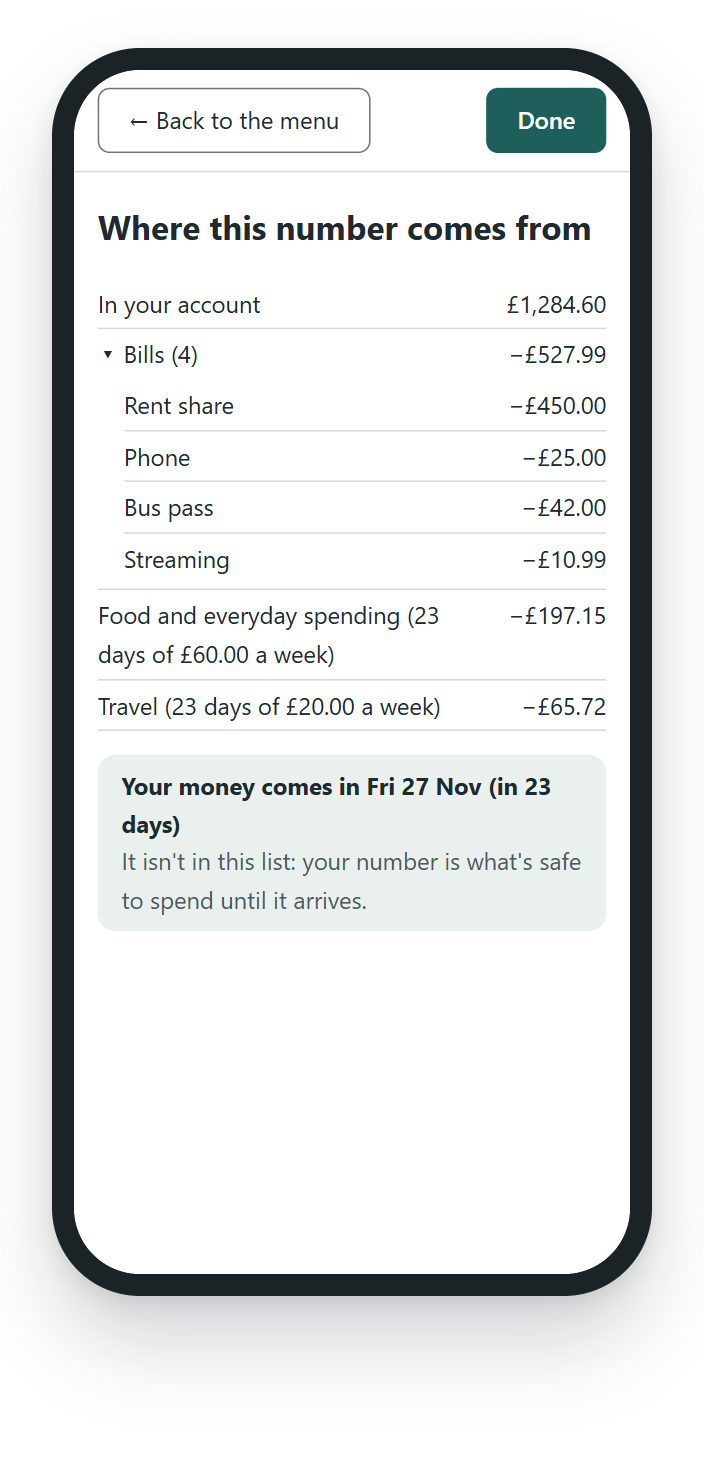
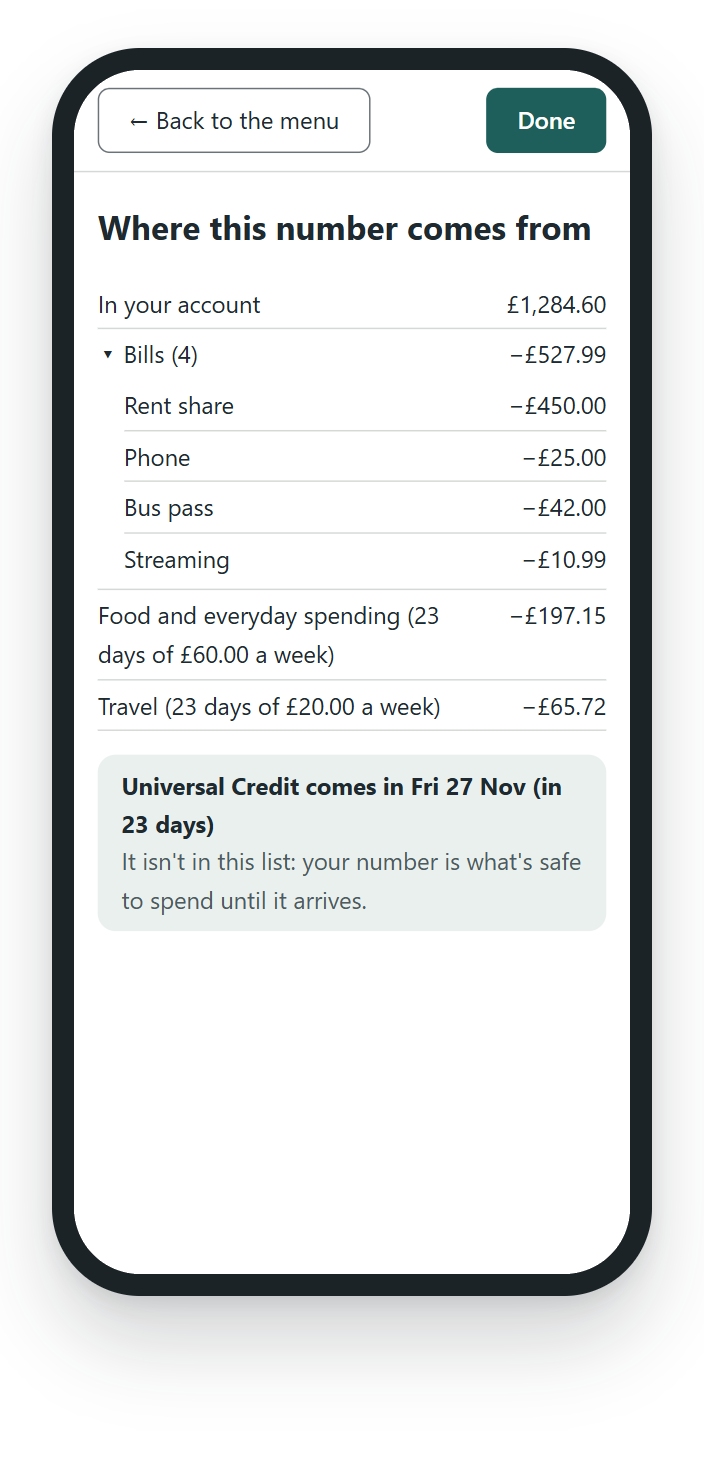
Menu: Your account first, then Money coming in, then Bills
Money coming in shows just its name in the Menu (the payments are
inside). Menu, breakdown and clip pictures retaken. Notes for v0.28.1.

Changed region(s): [[0.1562, 0.524, 0.8125, 0.5856]]

diff --git a/apps/money/src/screens/MenuSheet.tsx b/apps/money/src/screens/MenuSheet.tsx
@@ -217,8 +217,9 @@ interface MenuListProps {
 function MenuList({ form, today, built, outcome, onPanel }: MenuListProps) {
   const summary = describeForm(form, today);
   const items: Array<{ id: PanelId; title: string; sub: string }> = [
-    { id: "income", title: words.menu.names.income, sub: summary.payday },
+    // Your account first, then money in, then bills. Money coming in is just its name: the list is inside.
     { id: "account", title: words.menu.names.account, sub: summary.account },
+    { id: "income", title: words.menu.names.income, sub: "" },
     { id: "bills", title: words.menu.names.bills, sub: summary.bills },
     { id: "essentials", title: words.menu.names.essentials, sub: summary.essentials },
     { id: "pot", title: words.menu.names.pot, sub: summary.pot },
@@ -242,9 +243,11 @@ function MenuList({ form, today, built, outcome, onPanel }: MenuListProps) {
           <li key={item.id}>
             <button type="button" className="menu-item" onClick={() => onPanel(item.id)}>
               <span className={item.id === "pot" ? "menu-title pot-word" : "menu-title"}>{item.title}</span>
-              <span className={item.id === "pot" && item.sub !== words.notSetYet ? "menu-sub pot-amount" : "menu-sub"}>
-                {item.sub}
-              </span>
+              {item.sub === "" ? null : (
+                <span className={item.id === "pot" && item.sub !== words.notSetYet ? "menu-sub pot-amount" : "menu-sub"}>
+                  {item.sub}
+                </span>
+              )}
             </button>
           </li>
         ))}

diff --git a/docs/releases/v0.28.1.md b/docs/releases/v0.28.1.md
@@ -1,0 +1,14 @@
+**A tidier Menu.**
+
+## What's new
+
+- The Menu now starts with **Your account**, then **Money coming in**, then **Bills**, so it follows the order you think about your money.
+- **Money coming in** is just its name in the Menu. Your payments are all inside it.
+
+## Updating to this version
+
+- **Android (from v0.14.0):** go to **Menu → Settings → App options → Updates**, tap **Check now**, then **Download and install**. Your numbers stay.
+- **Android (older versions, or a first install):** on your phone, tap [this download link](https://github.com/PapaReaps/Breathe/releases/latest/download/breathe-money.apk), then open it. [How to install it](https://github.com/PapaReaps/Breathe/blob/main/docs/ANDROID-APP.md).
+- **Web link and computer app:** [papareaps.github.io/Breathe](https://papareaps.github.io/Breathe/) updates by itself.
+
+Breathe Money is an organisation tool, not financial advice.
